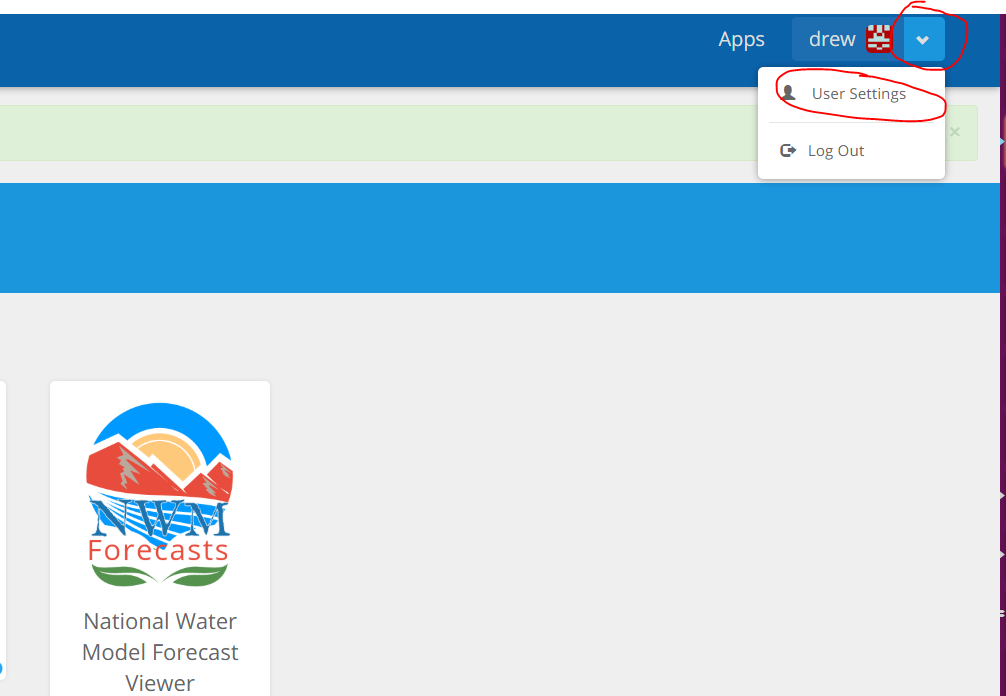
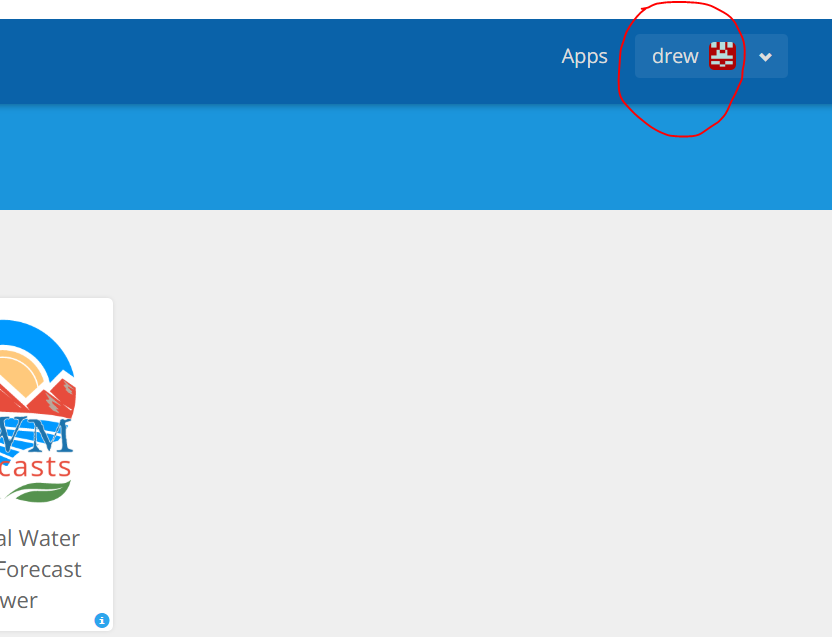
update images and help

diff --git a/tethysapp/nwm_forecasts/templates/nwm_forecasts/api_page.html b/tethysapp/nwm_forecasts/templates/nwm_forecasts/api_page.html
@@ -67,12 +67,12 @@ There are two common ways to avoid hitting the rate limit.
     <h3>Obtain API Token</h3>
     <p>
          Developer should sign in Tethys portal with a valid HydroShare account. Click USER_NAME in the upper-right corner and select "User Settings" to open user's profile page.
-        The API Token is listed as "API Key". API Token should be kept safe.
+         API Token should be kept safe.
         <ol>
-            <li> Sign in <a href="https://hs-apps.hydroshare.org">https://hs-apps.hydroshare.org</a> with HydroShare account</li>
-            <li> Click USER_NAME in the upper-right corner and select "User Settings"</li>
+            <li> Sign in <a href="https://hs-apps.hydroshare.org">https://hs-apps.hydroshare.org</a> with HydroShare account (if needed)</li>
+            <li> Click USER_NAME in the upper-right corner</li>
              <img height="50%" width="50%" src="{% static "nwm_forecasts/images/token1.png" %}">
-            <li> Copy the "API Key" and put it your code</li>
+            <li> Copy the "Token" and put it your code</li>
             <img height="50%" width="50%" src="{% static "nwm_forecasts/images/token2.png" %}">
 
         </ol>
